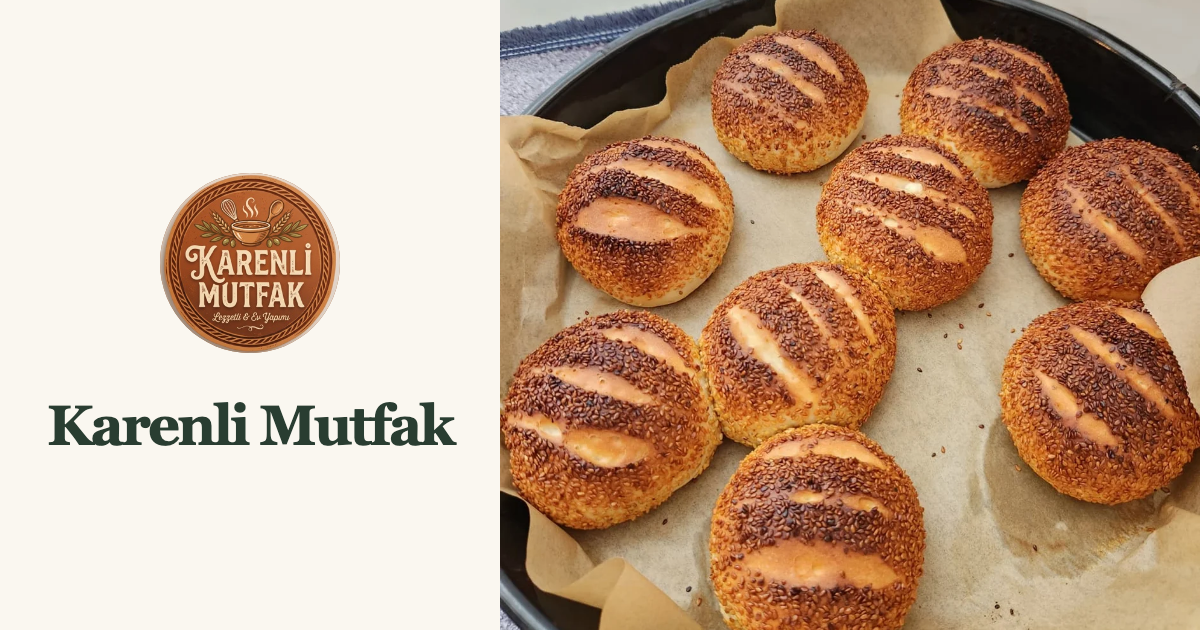
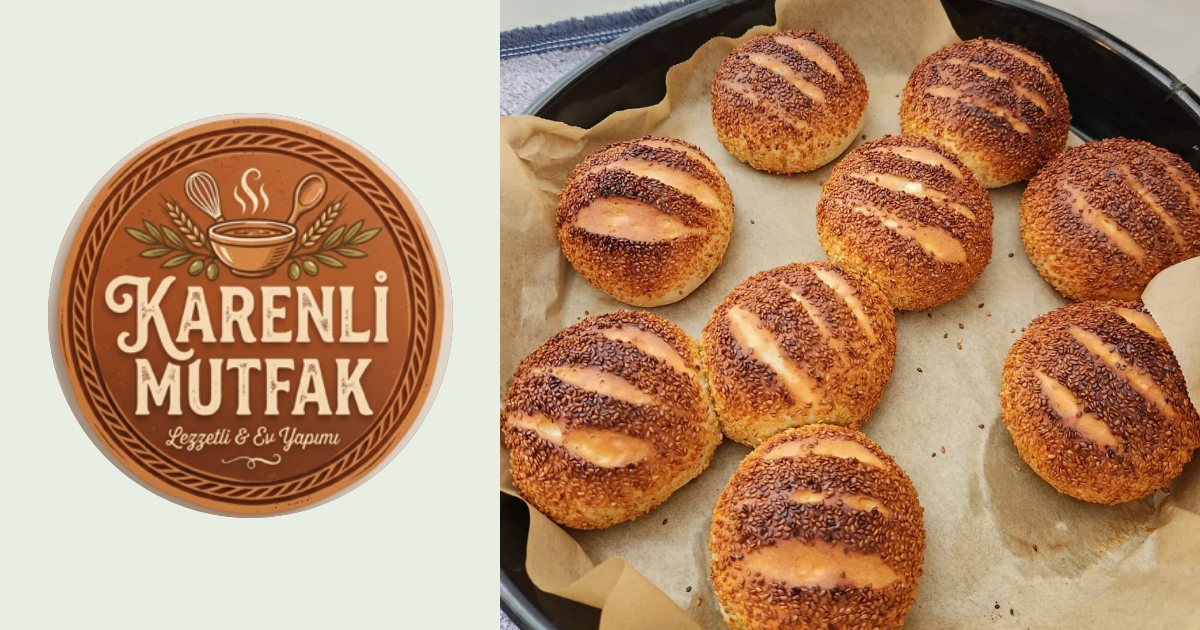
feat: last commit

Changed region(s): [[0.0308, 0.181, 0.4008, 0.8444]]

diff --git a/scripts/og-share.html b/scripts/og-share.html
@@ -5,18 +5,16 @@
     <style>
       * { box-sizing: border-box; }
       html, body { width: 1200px; height: 630px; margin: 0; }
-      body { display: grid; grid-template-columns: 500px 700px; overflow: hidden; background: #faf7f0; }
-      .brand { display: flex; flex-direction: column; align-items: center; justify-content: center; gap: 42px; }
-      .mark { width: 180px; height: 180px; overflow: hidden; border-radius: 50%; background: #a56336; }
+      body { display: grid; grid-template-columns: 500px 700px; overflow: hidden; background: #e8eee3; }
+      .brand { display: flex; align-items: center; justify-content: center; }
+      .mark { width: 405px; height: 405px; overflow: hidden; border-radius: 50%; background: #a56336; }
       .mark img { display: block; width: 100%; height: 100%; object-fit: cover; transform: scale(1.34); }
-      h1 { margin: 0; color: #293d31; font: 600 56px/1.1 Georgia, serif; letter-spacing: -2.5px; }
       .photo { width: 700px; height: 630px; object-fit: cover; object-position: center 56%; }
     </style>
   </head>
   <body>
     <div class="brand">
       <div class="mark"><img src="../public/logo-small.jpeg" alt="" /></div>
-      <h1>Karenli Mutfak</h1>
     </div>
     <img class="photo" src="../public/images/pogaca-hero.webp" alt="" />
   </body>
